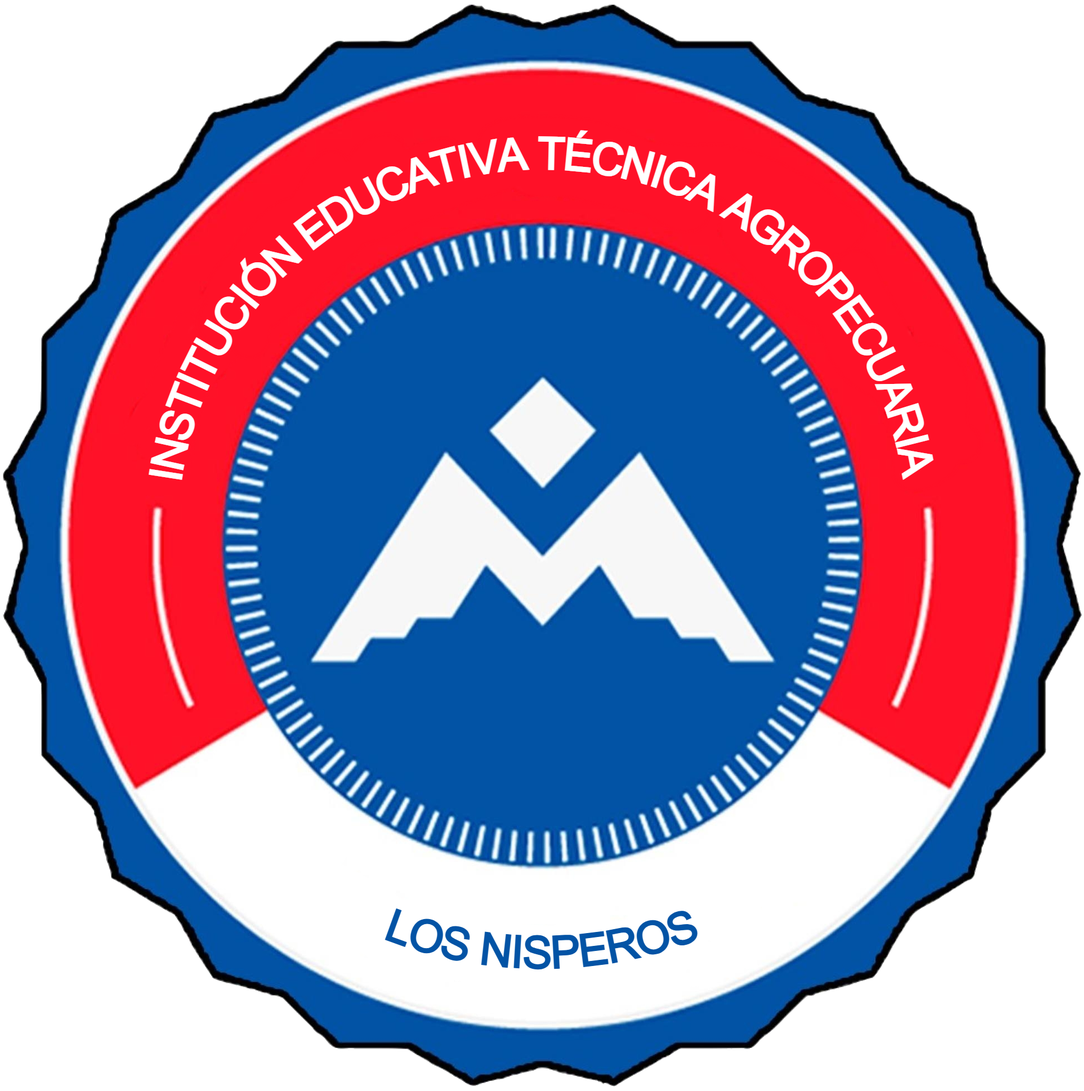
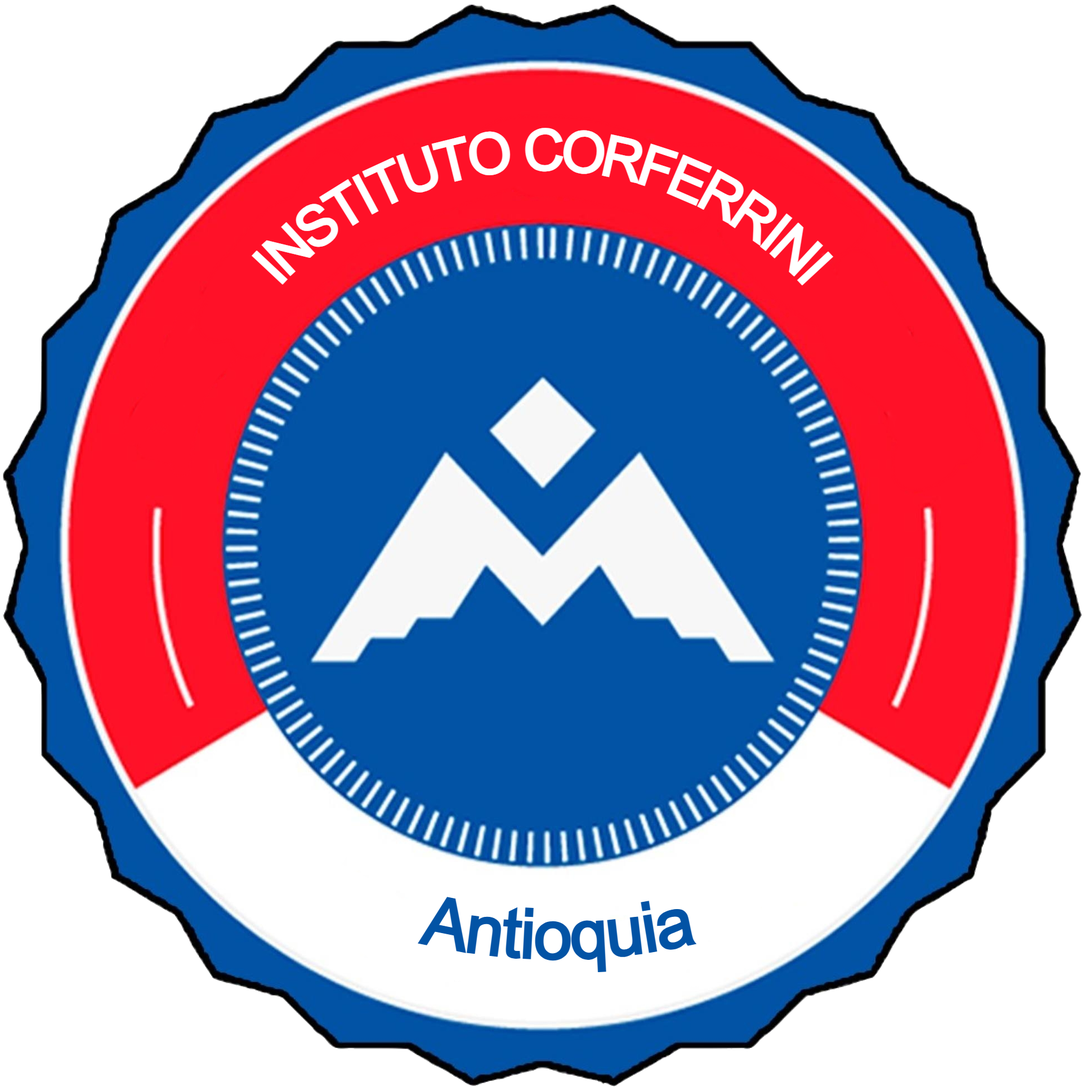
1

Changed region(s): [[0.1236, 0.0936, 0.8651, 0.4368], [0.3399, 0.8113, 0.6488, 0.9049]]

diff --git a/contacto/index.html b/contacto/index.html
@@ -8,10 +8,10 @@
     <meta name="viewport" content="width=device-width, initial-scale=1">
     <link rel="profile" href="http://gmpg.org/xfn/11">
     <link rel="pingback" href="../xmlrpc.html">
-	<title>Contacto &#8211; I EDU TÉCNICA AGROPECUARIA LOS NISPEROS</title>
+	<title>Contacto &#8211; INSTITUTO CORFERRINI</title>
 <meta name='robots' content='max-image-preview:large' />
-<link rel="alternate" type="application/rss+xml" title="I EDU TÉCNICA AGROPECUARIA LOS NISPEROS &raquo; Feed" href="../feed/index.html" />
-<link rel="alternate" type="application/rss+xml" title="I EDU TÉCNICA AGROPECUARIA LOS NISPEROS &raquo; Feed de los comentarios" href="../comments/feed/index.html" />
+<link rel="alternate" type="application/rss+xml" title="INSTITUTO CORFERRINI &raquo; Feed" href="../feed/index.html" />
+<link rel="alternate" type="application/rss+xml" title="INSTITUTO CORFERRINI &raquo; Feed de los comentarios" href="../comments/feed/index.html" />
 <link rel='stylesheet' id='wp-block-library-css' href='../wp-includes/css/dist/block-library/style.minb6a4.css?ver=6.6.1' type='text/css' media='all' />
 <style id='wp-block-library-theme-inline-css' type='text/css'>
 .wp-block-audio :where(figcaption){color:#555;font-size:13px;text-align:center}.is-dark-theme .wp-block-audio :where(figcaption){color:#ffffffa6}.wp-block-audio{margin:0 0 1em}.wp-block-code{border:1px solid #ccc;border-radius:4px;font-family:Menlo,Consolas,monaco,monospace;padding:.8em 1em}.wp-block-embed :where(figcaption){color:#555;font-size:13px;text-align:center}.is-dark-theme .wp-block-embed :where(figcaption){color:#ffffffa6}.wp-block-embed{margin:0 0 1em}.blocks-gallery-caption{color:#555;font-size:13px;text-align:center}.is-dark-theme .blocks-gallery-caption{color:#ffffffa6}:root :where(.wp-block-image figcaption){color:#555;font-size:13px;text-align:center}.is-dark-theme :root :where(.wp-block-image figcaption){color:#ffffffa6}.wp-block-image{margin:0 0 1em}.wp-block-pullquote{border-bottom:4px solid;border-top:4px solid;color:currentColor;margin-bottom:1.75em}.wp-block-pullquote cite,.wp-block-pullquote footer,.wp-block-pullquote__citation{color:currentColor;font-size:.8125em;font-style:normal;text-transform:uppercase}.wp-block-quote{border-left:.25em solid;margin:0 0 1.75em;padding-left:1em}.wp-block-quote cite,.wp-block-quote footer{color:currentColor;font-size:.8125em;font-style:normal;position:relative}.wp-block-quote.has-text-align-right{border-left:none;border-right:.25em solid;padding-left:0;padding-right:1em}.wp-block-quote.has-text-align-center{border:none;padding-left:0}.wp-block-quote.is-large,.wp-block-quote.is-style-large,.wp-block-quote.is-style-plain{border:none}.wp-block-search .wp-block-search__label{font-weight:700}.wp-block-search__button{border:1px solid #ccc;padding:.375em .625em}:where(.wp-block-group.has-background){padding:1.25em 2.375em}.wp-block-separator.has-css-opacity{opacity:.4}.wp-block-separator{border:none;border-bottom:2px solid;margin-left:auto;margin-right:auto}.wp-block-separator.has-alpha-channel-opacity{opacity:1}.wp-block-separator:not(.is-style-wide):not(.is-style-dots){width:100px}.wp-block-separator.has-background:not(.is-style-dots){border-bottom:none;height:1px}.wp-block-separator.has-background:not(.is-style-wide):not(.is-style-dots){height:2px}.wp-block-table{margin:0 0 1em}.wp-block-table td,.wp-block-table th{word-break:normal}.wp-block-table :where(figcaption){color:#555;font-size:13px;text-align:center}.is-dark-theme .wp-block-table :where(figcaption){color:#ffffffa6}.wp-block-video :where(figcaption){color:#555;font-size:13px;text-align:center}.is-dark-theme .wp-block-video :where(figcaption){color:#ffffffa6}.wp-block-video{margin:0 0 1em}:root :where(.wp-block-template-part.has-background){margin-bottom:0;margin-top:0;padding:1.25em 2.375em}
@@ -1032,7 +1032,7 @@ body .vc_tta.vc_tta-spacing-1 .vc_tta-tab a {
 		<div class="navigation col-sm-12">
 			<div class="tm-table">
 				<div class="width-logo table-cell sm-logo">
-					<a href="../index.html" title="I EDU TÉCNICA AGROPECUARIA LOS NISPEROS - " rel="home" class="thim-logo"><img src="../wp-content/uploads/2019/07/escudo_web.png" alt="I EDU TÉCNICA AGROPECUARIA LOS NISPEROS" width="auto" height="auto" data-sticky="../wp-content/uploads/2019/07/escudo_web.png"></a>				</div>
+					<a href="../index.html" title="INSTITUTO CORFERRINI - " rel="home" class="thim-logo"><img src="../wp-content/uploads/2019/07/escudo_web.png" alt="INSTITUTO CORFERRINI" width="auto" height="auto" data-sticky="../wp-content/uploads/2019/07/escudo_web.png"></a>				</div>
                 <nav class="width-navigation table-cell table-right">
                     <ul class="nav navbar-nav menu-main-menu thim-ekits-menu__nav">
 	<li class="menu-item menu-item-type-post_type menu-item-object-page menu-item-home menu-item-10624 tc-menu-item tc-menu-depth-0 tc-menu-align-left tc-menu-layout-default"><a href="../index.html" class="tc-menu-inner">Inicio</a></li>
@@ -1070,7 +1070,7 @@ body .vc_tta.vc_tta-spacing-1 .vc_tta-tab a {
 	
 <article id="post-87" class="post-87 page type-page status-publish hentry">
     <div class="entry-content">
-        <div class="wpb-content-wrapper"><div class="vc_row wpb_row vc_row-fluid"><div class="wpb_column vc_column_container vc_col-sm-6"><div class="vc_column-inner vc_custom_1470924989540"><div class="wpb_wrapper"><div class="vc_row wpb_row vc_inner vc_row-fluid"><div class="wpb_column vc_column_container vc_col-sm-12"><div class="vc_column-inner"><div class="wpb_wrapper"><div class="thim-widget-heading template-base"><div class="sc_heading  "><h3 class="title">Contacto</h3><p class="sub-heading" style="">Bienvenidos a nuestro sitio web, estamos encantados de que nos visites.</p></div></div></div></div></div></div><div class="vc_row wpb_row vc_inner vc_row-fluid vc_custom_1470926005243 vc_row-has-fill"><div class="wpb_column vc_column_container vc_col-sm-6"><div class="vc_column-inner vc_custom_1470926107488"><div class="wpb_wrapper"><div class="thim-widget-icon-box template-base"><div class="wrapper-box-icon text-left contact_info" ><div class="smicon-box iconbox-left" style="--icon-font-size:24px;--icon-color:#ffb606;--icon-width: 30px;"><div class="boxes-icon"><span class="inner-icon"><span class="icon"><i class="fa fa-phone""></i></span></span></span></div><div class="content-inner"><div class="sc-heading article_heading"><h3 class = "heading__primary" >Teléfono</h3></div><div class="desc-icon-box"><div class="desc-content" style="font-size: 14px;line-height: 21px;">6015581452</div></div></div></div></div></div></div></div></div><div class="wpb_column vc_column_container vc_col-sm-6"><div class="vc_column-inner vc_custom_1470926116338"><div class="wpb_wrapper"><div class="thim-widget-icon-box template-base"><div class="wrapper-box-icon text-left contact_info" ><div class="smicon-box iconbox-left" style="--icon-font-size:24px;--icon-color:#ffb606;--icon-width: 30px;"><div class="boxes-icon"><span class="inner-icon"><span class="icon"><i class="fa fa-envelope""></i></span></span></span></div><div class="content-inner"><div class="sc-heading article_heading"><h3 class = "heading__primary" >Correo Electrónico</h3></div><div class="desc-icon-box"><div class="desc-content" style="font-size: 14px;line-height: 21px;">admin@ietecnicaalosnisperos.co</div></div></div></div></div></div></div></div></div></div><div class="vc_row wpb_row vc_inner vc_row-fluid vc_custom_1470926166389 vc_row-has-fill"><div class="wpb_column vc_column_container vc_col-sm-12"><div class="vc_column-inner vc_custom_1470926141337"><div class="wpb_wrapper"><div class="thim-widget-icon-box template-base"><div class="wrapper-box-icon text-left contact_info" ><div class="smicon-box iconbox-left" style="--icon-font-size:24px;--icon-color:#ffb606;--icon-width: 30px;"><div class="boxes-icon"><span class="inner-icon"><span class="icon"><i class="fa fa-map-marker""></i></span></span></span></div><div class="content-inner"><div class="sc-heading article_heading"><h3 class = "heading__primary" >Dirección</h3></div><div class="desc-icon-box"><div class="desc-content" style="font-size: 14px;line-height: 21px;">C/GIMIENTO LOS NISPEROS, BOLÍVAR, ACHÍ , COLOMBIA</div></div></div></div></div></div></div></div></div></div><div class="vc_row wpb_row vc_inner vc_row-fluid vc_custom_1470926187379 vc_row-has-fill"><div class="wpb_column vc_column_container vc_col-sm-12"><div class="vc_column-inner vc_custom_1470926203133"><div class="wpb_wrapper"><div class="thim-widget-social template-base"><div class="thim-social">
+        <div class="wpb-content-wrapper"><div class="vc_row wpb_row vc_row-fluid"><div class="wpb_column vc_column_container vc_col-sm-6"><div class="vc_column-inner vc_custom_1470924989540"><div class="wpb_wrapper"><div class="vc_row wpb_row vc_inner vc_row-fluid"><div class="wpb_column vc_column_container vc_col-sm-12"><div class="vc_column-inner"><div class="wpb_wrapper"><div class="thim-widget-heading template-base"><div class="sc_heading  "><h3 class="title">Contacto</h3><p class="sub-heading" style="">Bienvenidos a nuestro sitio web, estamos encantados de que nos visites.</p></div></div></div></div></div></div><div class="vc_row wpb_row vc_inner vc_row-fluid vc_custom_1470926005243 vc_row-has-fill"><div class="wpb_column vc_column_container vc_col-sm-6"><div class="vc_column-inner vc_custom_1470926107488"><div class="wpb_wrapper"><div class="thim-widget-icon-box template-base"><div class="wrapper-box-icon text-left contact_info" ><div class="smicon-box iconbox-left" style="--icon-font-size:24px;--icon-color:#ffb606;--icon-width: 30px;"><div class="boxes-icon"><span class="inner-icon"><span class="icon"><i class="fa fa-phone""></i></span></span></span></div><div class="content-inner"><div class="sc-heading article_heading"><h3 class = "heading__primary" >Teléfono</h3></div><div class="desc-icon-box"><div class="desc-content" style="font-size: 14px;line-height: 21px;">6018548512</div></div></div></div></div></div></div></div></div><div class="wpb_column vc_column_container vc_col-sm-6"><div class="vc_column-inner vc_custom_1470926116338"><div class="wpb_wrapper"><div class="thim-widget-icon-box template-base"><div class="wrapper-box-icon text-left contact_info" ><div class="smicon-box iconbox-left" style="--icon-font-size:24px;--icon-color:#ffb606;--icon-width: 30px;"><div class="boxes-icon"><span class="inner-icon"><span class="icon"><i class="fa fa-envelope""></i></span></span></span></div><div class="content-inner"><div class="sc-heading article_heading"><h3 class = "heading__primary" >Correo Electrónico</h3></div><div class="desc-icon-box"><div class="desc-content" style="font-size: 14px;line-height: 21px;">admin@institutocorferrini.co</div></div></div></div></div></div></div></div></div></div><div class="vc_row wpb_row vc_inner vc_row-fluid vc_custom_1470926166389 vc_row-has-fill"><div class="wpb_column vc_column_container vc_col-sm-12"><div class="vc_column-inner vc_custom_1470926141337"><div class="wpb_wrapper"><div class="thim-widget-icon-box template-base"><div class="wrapper-box-icon text-left contact_info" ><div class="smicon-box iconbox-left" style="--icon-font-size:24px;--icon-color:#ffb606;--icon-width: 30px;"><div class="boxes-icon"><span class="inner-icon"><span class="icon"><i class="fa fa-map-marker""></i></span></span></span></div><div class="content-inner"><div class="sc-heading article_heading"><h3 class = "heading__primary" >Dirección</h3></div><div class="desc-icon-box"><div class="desc-content" style="font-size: 14px;line-height: 21px;">Carepa, Antioquia, Colombia</div></div></div></div></div></div></div></div></div></div><div class="vc_row wpb_row vc_inner vc_row-fluid vc_custom_1470926187379 vc_row-has-fill"><div class="wpb_column vc_column_container vc_col-sm-12"><div class="vc_column-inner vc_custom_1470926203133"><div class="wpb_wrapper"><div class="thim-widget-social template-base"><div class="thim-social">
 		
 </div></div></div></div></div></div></div></div></div><div class="wpb_column vc_column_container vc_col-sm-6"><div class="vc_column-inner vc_custom_1470924975090"><div class="wpb_wrapper"><div class="vc_row wpb_row vc_inner vc_row-fluid"><div class="wpb_column vc_column_container vc_col-sm-12"><div class="vc_column-inner"><div class="wpb_wrapper">
 	
@@ -1138,15 +1138,15 @@ body .vc_tta.vc_tta-spacing-1 .vc_tta-tab a {
 		<div class="wpb_wrapper">
 			<p><img class="wp-image-11219 size-full aligncenter" src="../wp-content/uploads/2019/07/escudo_web.png" alt="" width="120" height="120" /></p>
 <p style="text-align: center;"><strong>INSTITUCIÓN EDUCATIVA<br />
-I EDU TÉCNICA AGROPECUARIA LOS NISPEROS<br />
+INSTITUTO CORFERRINI<br />
 </strong></p>
 
 		</div>
 	</div>
 </div></div></div><div class="wpb_column vc_column_container vc_col-sm-3"><div class="vc_column-inner"><div class="wpb_wrapper"><div class="vc_wp_text wpb_content_element"><div class="widget widget_text"><h3 class="widget-title">Información de Contacto</h3>			<div class="textwidget"><div class="thim-footer-location">
-<p class="info" style="text-align: center;"><i class="fa fa-phone"></i><a href="tel:(57) 6015581452">(+57) 6015581452</a></p>
-<p class="info" style="text-align: center;"><i class="fa fa-envelope"></i><a href="mailto: admin@ietecnicaalosnisperos.co">admin@ietecnicaalosnisperos.co</a></p>
-<p class="info" style="text-align: center;"><i class="fa fa-map-marker"></i>C/GIMIENTO LOS NISPEROS, BOLÍVAR, ACHÍ , COLOMBIA</p>
+<p class="info" style="text-align: center;"><i class="fa fa-phone"></i><a href="tel:(57) 6018548512">(+57) 6018548512</a></p>
+<p class="info" style="text-align: center;"><i class="fa fa-envelope"></i><a href="mailto: admin@institutocorferrini.co">admin@institutocorferrini.co</a></p>
+<p class="info" style="text-align: center;"><i class="fa fa-map-marker"></i>Carepa, Antioquia, Colombia</p>
 </div>
 </div>
 		</div></div></div></div></div></div></aside>                </div>

diff --git a/nuestro-colegio/index.html b/nuestro-colegio/index.html
@@ -8,10 +8,10 @@
     <meta name="viewport" content="width=device-width, initial-scale=1">
     <link rel="profile" href="http://gmpg.org/xfn/11">
     <link rel="pingback" href="../xmlrpc.html">
-	<title>Nuestro Colegio &#8211; I EDU TÉCNICA AGROPECUARIA LOS NISPEROS</title>
+	<title>Nuestro Colegio &#8211; INSTITUTO CORFERRINI</title>
 <meta name='robots' content='max-image-preview:large' />
-<link rel="alternate" type="application/rss+xml" title="I EDU TÉCNICA AGROPECUARIA LOS NISPEROS &raquo; Feed" href="../feed/index.html" />
-<link rel="alternate" type="application/rss+xml" title="I EDU TÉCNICA AGROPECUARIA LOS NISPEROS &raquo; Feed de los comentarios" href="../comments/feed/index.html" />
+<link rel="alternate" type="application/rss+xml" title="INSTITUTO CORFERRINI &raquo; Feed" href="../feed/index.html" />
+<link rel="alternate" type="application/rss+xml" title="INSTITUTO CORFERRINI &raquo; Feed de los comentarios" href="../comments/feed/index.html" />
 <link rel='stylesheet' id='wp-block-library-css' href='../wp-includes/css/dist/block-library/style.minb6a4.css?ver=6.6.1' type='text/css' media='all' />
 <style id='wp-block-library-theme-inline-css' type='text/css'>
 .wp-block-audio :where(figcaption){color:#555;font-size:13px;text-align:center}.is-dark-theme .wp-block-audio :where(figcaption){color:#ffffffa6}.wp-block-audio{margin:0 0 1em}.wp-block-code{border:1px solid #ccc;border-radius:4px;font-family:Menlo,Consolas,monaco,monospace;padding:.8em 1em}.wp-block-embed :where(figcaption){color:#555;font-size:13px;text-align:center}.is-dark-theme .wp-block-embed :where(figcaption){color:#ffffffa6}.wp-block-embed{margin:0 0 1em}.blocks-gallery-caption{color:#555;font-size:13px;text-align:center}.is-dark-theme .blocks-gallery-caption{color:#ffffffa6}:root :where(.wp-block-image figcaption){color:#555;font-size:13px;text-align:center}.is-dark-theme :root :where(.wp-block-image figcaption){color:#ffffffa6}.wp-block-image{margin:0 0 1em}.wp-block-pullquote{border-bottom:4px solid;border-top:4px solid;color:currentColor;margin-bottom:1.75em}.wp-block-pullquote cite,.wp-block-pullquote footer,.wp-block-pullquote__citation{color:currentColor;font-size:.8125em;font-style:normal;text-transform:uppercase}.wp-block-quote{border-left:.25em solid;margin:0 0 1.75em;padding-left:1em}.wp-block-quote cite,.wp-block-quote footer{color:currentColor;font-size:.8125em;font-style:normal;position:relative}.wp-block-quote.has-text-align-right{border-left:none;border-right:.25em solid;padding-left:0;padding-right:1em}.wp-block-quote.has-text-align-center{border:none;padding-left:0}.wp-block-quote.is-large,.wp-block-quote.is-style-large,.wp-block-quote.is-style-plain{border:none}.wp-block-search .wp-block-search__label{font-weight:700}.wp-block-search__button{border:1px solid #ccc;padding:.375em .625em}:where(.wp-block-group.has-background){padding:1.25em 2.375em}.wp-block-separator.has-css-opacity{opacity:.4}.wp-block-separator{border:none;border-bottom:2px solid;margin-left:auto;margin-right:auto}.wp-block-separator.has-alpha-channel-opacity{opacity:1}.wp-block-separator:not(.is-style-wide):not(.is-style-dots){width:100px}.wp-block-separator.has-background:not(.is-style-dots){border-bottom:none;height:1px}.wp-block-separator.has-background:not(.is-style-wide):not(.is-style-dots){height:2px}.wp-block-table{margin:0 0 1em}.wp-block-table td,.wp-block-table th{word-break:normal}.wp-block-table :where(figcaption){color:#555;font-size:13px;text-align:center}.is-dark-theme .wp-block-table :where(figcaption){color:#ffffffa6}.wp-block-video :where(figcaption){color:#555;font-size:13px;text-align:center}.is-dark-theme .wp-block-video :where(figcaption){color:#ffffffa6}.wp-block-video{margin:0 0 1em}:root :where(.wp-block-template-part.has-background){margin-bottom:0;margin-top:0;padding:1.25em 2.375em}
@@ -1032,7 +1032,7 @@ body .vc_tta.vc_tta-spacing-1 .vc_tta-tab a {
 		<div class="navigation col-sm-12">
 			<div class="tm-table">
 				<div class="width-logo table-cell sm-logo">
-					<a href="../index.html" title="I EDU TÉCNICA AGROPECUARIA LOS NISPEROS - " rel="home" class="thim-logo"><img src="../wp-content/uploads/2019/07/escudo_web.png" alt="I EDU TÉCNICA AGROPECUARIA LOS NISPEROS" width="auto" height="auto" data-sticky="../wp-content/uploads/2019/07/escudo_web.png"></a>				</div>
+					<a href="../index.html" title="INSTITUTO CORFERRINI - " rel="home" class="thim-logo"><img src="../wp-content/uploads/2019/07/escudo_web.png" alt="INSTITUTO CORFERRINI" width="auto" height="auto" data-sticky="../wp-content/uploads/2019/07/escudo_web.png"></a>				</div>
                 <nav class="width-navigation table-cell table-right">
                     <ul class="nav navbar-nav menu-main-menu thim-ekits-menu__nav">
 	<li class="menu-item menu-item-type-post_type menu-item-object-page menu-item-home menu-item-10624 tc-menu-item tc-menu-depth-0 tc-menu-align-left tc-menu-layout-default"><a href="../index.html" class="tc-menu-inner">Inicio</a></li>
@@ -1074,7 +1074,7 @@ body .vc_tta.vc_tta-spacing-1 .vc_tta-tab a {
 	<div class="wpb_text_column wpb_content_element" >
 		<div class="wpb_wrapper">
 			<h3 class="thim-text-title">Misión</h3>
-<p>La I EDU TÉCNICA AGROPECUARIA LOS NISPEROS, es un establecimiento de carácter oficial que ofrece los niveles de preescolar, básica primaria y secundaria, media académica y técnica, bachillerato por ciclos y programas flexibles, creada para la formación integral de la comunidad tibuyana con carácter inclusivo, a través de un Proyecto Educativo que incida significativamente en el desarrollo de sus competencias intelectuales, laborales y ciudadanas.</p>
+<p>La INSTITUTO CORFERRINI, es un establecimiento de carácter oficial que ofrece los niveles de preescolar, básica primaria y secundaria, media académica y técnica, bachillerato por ciclos y programas flexibles, creada para la formación integral de la comunidad tibuyana con carácter inclusivo, a través de un Proyecto Educativo que incida significativamente en el desarrollo de sus competencias intelectuales, laborales y ciudadanas.</p>
 
 		</div>
 	</div>
@@ -1082,7 +1082,7 @@ body .vc_tta.vc_tta-spacing-1 .vc_tta-tab a {
 	<div class="wpb_text_column wpb_content_element" >
 		<div class="wpb_wrapper">
 			<h3 class="thim-text-title">Visión</h3>
-<p>La I EDU TÉCNICA AGROPECUARIA LOS NISPEROS, será reconocida por ser gestora de paz, por su excelencia administrativa y académica, líder en el respeto a los derechos humanos y la promoción de desarrollo integral de la región del Catatumbo.</p>
+<p>La INSTITUTO CORFERRINI, será reconocida por ser gestora de paz, por su excelencia administrativa y académica, líder en el respeto a los derechos humanos y la promoción de desarrollo integral de la región del Catatumbo.</p>
 
 		</div>
 	</div>
@@ -1114,15 +1114,15 @@ body .vc_tta.vc_tta-spacing-1 .vc_tta-tab a {
 		<div class="wpb_wrapper">
 			<p><img class="wp-image-11219 size-full aligncenter" src="../wp-content/uploads/2019/07/escudo_web.png" alt="" width="120" height="120" /></p>
 <p style="text-align: center;"><strong>INSTITUCIÓN EDUCATIVA<br />
-I EDU TÉCNICA AGROPECUARIA LOS NISPEROS<br />
+INSTITUTO CORFERRINI<br />
 </strong></p>
 
 		</div>
 	</div>
 </div></div></div><div class="wpb_column vc_column_container vc_col-sm-3"><div class="vc_column-inner"><div class="wpb_wrapper"><div class="vc_wp_text wpb_content_element"><div class="widget widget_text"><h3 class="widget-title">Información de Contacto</h3>			<div class="textwidget"><div class="thim-footer-location">
-<p class="info" style="text-align: center;"><i class="fa fa-phone"></i><a href="tel:(57) 6015581452">(+57) 6015581452</a></p>
-<p class="info" style="text-align: center;"><i class="fa fa-envelope"></i><a href="mailto: admin@ietecnicaalosnisperos.co">admin@ietecnicaalosnisperos.co</a></p>
-<p class="info" style="text-align: center;"><i class="fa fa-map-marker"></i>C/GIMIENTO LOS NISPEROS, BOLÍVAR, ACHÍ , COLOMBIA</p>
+<p class="info" style="text-align: center;"><i class="fa fa-phone"></i><a href="tel:(57) 6018548512">(+57) 6018548512</a></p>
+<p class="info" style="text-align: center;"><i class="fa fa-envelope"></i><a href="mailto: admin@institutocorferrini.co">admin@institutocorferrini.co</a></p>
+<p class="info" style="text-align: center;"><i class="fa fa-map-marker"></i>Carepa, Antioquia, Colombia</p>
 </div>
 </div>
 		</div></div></div></div></div></div></aside>                </div>

diff --git a/index.html b/index.html
@@ -8,10 +8,10 @@
     <meta name="viewport" content="width=device-width, initial-scale=1">
     <link rel="profile" href="http://gmpg.org/xfn/11">
     <link rel="pingback" href="xmlrpc.html">
-	<title>I EDU TÉCNICA AGROPECUARIA LOS NISPEROS</title>
+	<title>INSTITUTO CORFERRINI</title>
 <meta name='robots' content='max-image-preview:large' />
-<link rel="alternate" type="application/rss+xml" title="I EDU TÉCNICA AGROPECUARIA LOS NISPEROS &raquo; Feed" href="feed/index.html" />
-<link rel="alternate" type="application/rss+xml" title="I EDU TÉCNICA AGROPECUARIA LOS NISPEROS &raquo; Feed de los comentarios" href="comments/feed/index.html" />
+<link rel="alternate" type="application/rss+xml" title="INSTITUTO CORFERRINI &raquo; Feed" href="feed/index.html" />
+<link rel="alternate" type="application/rss+xml" title="INSTITUTO CORFERRINI &raquo; Feed de los comentarios" href="comments/feed/index.html" />
 <link rel='stylesheet' id='wp-block-library-css' href='wp-includes/css/dist/block-library/style.minb6a4.css?ver=6.6.1' type='text/css' media='all' />
 <style id='wp-block-library-theme-inline-css' type='text/css'>
 .wp-block-audio :where(figcaption){color:#555;font-size:13px;text-align:center}.is-dark-theme .wp-block-audio :where(figcaption){color:#ffffffa6}.wp-block-audio{margin:0 0 1em}.wp-block-code{border:1px solid #ccc;border-radius:4px;font-family:Menlo,Consolas,monaco,monospace;padding:.8em 1em}.wp-block-embed :where(figcaption){color:#555;font-size:13px;text-align:center}.is-dark-theme .wp-block-embed :where(figcaption){color:#ffffffa6}.wp-block-embed{margin:0 0 1em}.blocks-gallery-caption{color:#555;font-size:13px;text-align:center}.is-dark-theme .blocks-gallery-caption{color:#ffffffa6}:root :where(.wp-block-image figcaption){color:#555;font-size:13px;text-align:center}.is-dark-theme :root :where(.wp-block-image figcaption){color:#ffffffa6}.wp-block-image{margin:0 0 1em}.wp-block-pullquote{border-bottom:4px solid;border-top:4px solid;color:currentColor;margin-bottom:1.75em}.wp-block-pullquote cite,.wp-block-pullquote footer,.wp-block-pullquote__citation{color:currentColor;font-size:.8125em;font-style:normal;text-transform:uppercase}.wp-block-quote{border-left:.25em solid;margin:0 0 1.75em;padding-left:1em}.wp-block-quote cite,.wp-block-quote footer{color:currentColor;font-size:.8125em;font-style:normal;position:relative}.wp-block-quote.has-text-align-right{border-left:none;border-right:.25em solid;padding-left:0;padding-right:1em}.wp-block-quote.has-text-align-center{border:none;padding-left:0}.wp-block-quote.is-large,.wp-block-quote.is-style-large,.wp-block-quote.is-style-plain{border:none}.wp-block-search .wp-block-search__label{font-weight:700}.wp-block-search__button{border:1px solid #ccc;padding:.375em .625em}:where(.wp-block-group.has-background){padding:1.25em 2.375em}.wp-block-separator.has-css-opacity{opacity:.4}.wp-block-separator{border:none;border-bottom:2px solid;margin-left:auto;margin-right:auto}.wp-block-separator.has-alpha-channel-opacity{opacity:1}.wp-block-separator:not(.is-style-wide):not(.is-style-dots){width:100px}.wp-block-separator.has-background:not(.is-style-dots){border-bottom:none;height:1px}.wp-block-separator.has-background:not(.is-style-wide):not(.is-style-dots){height:2px}.wp-block-table{margin:0 0 1em}.wp-block-table td,.wp-block-table th{word-break:normal}.wp-block-table :where(figcaption){color:#555;font-size:13px;text-align:center}.is-dark-theme .wp-block-table :where(figcaption){color:#ffffffa6}.wp-block-video :where(figcaption){color:#555;font-size:13px;text-align:center}.is-dark-theme .wp-block-video :where(figcaption){color:#ffffffa6}.wp-block-video{margin:0 0 1em}:root :where(.wp-block-template-part.has-background){margin-bottom:0;margin-top:0;padding:1.25em 2.375em}
@@ -1032,7 +1032,7 @@ body .vc_tta.vc_tta-spacing-1 .vc_tta-tab a {
 		<div class="navigation col-sm-12">
 			<div class="tm-table">
 				<div class="width-logo table-cell sm-logo">
-					<a href="index.html" title="I EDU TÉCNICA AGROPECUARIA LOS NISPEROS - " rel="home" class="thim-logo"><img src="wp-content/uploads/2019/07/escudo_web.png" alt="I EDU TÉCNICA AGROPECUARIA LOS NISPEROS" width="auto" height="auto" data-sticky="wp-content/uploads/2019/07/escudo_web.png"></a>				</div>
+					<a href="index.html" title="INSTITUTO CORFERRINI - " rel="home" class="thim-logo"><img src="wp-content/uploads/2019/07/escudo_web.png" alt="INSTITUTO CORFERRINI" width="auto" height="auto" data-sticky="wp-content/uploads/2019/07/escudo_web.png"></a>				</div>
                 <nav class="width-navigation table-cell table-right">
                     <ul class="nav navbar-nav menu-main-menu thim-ekits-menu__nav">
 	<li class="menu-item menu-item-type-post_type menu-item-object-page menu-item-home current-menu-item page_item page-item-10591 current_page_item menu-item-10624 tc-menu-item tc-menu-depth-0 tc-menu-align-left tc-menu-layout-default"><a href="index.html" class="tc-menu-inner">Inicio</a></li>
@@ -1102,7 +1102,7 @@ body .vc_tta.vc_tta-spacing-1 .vc_tta-tab a {
 	<div class="wpb_text_column wpb_content_element vc_custom_1562188137933" >
 		<div class="wpb_wrapper">
 			<div class="textwidget">
-<p>La I EDU TÉCNICA AGROPECUARIA LOS NISPEROS, es un establecimiento de carácter oficial que ofrece los niveles de preescolar, básica primaria y secundaria, media académica y técnica, bachillerato por ciclos y programas flexibles, creada para la formación integral de la comunidad tibuyana con carácter inclusivo, a través de un Proyecto Educativo que incida significativamente en el desarrollo de sus competencias intelectuales, laborales y ciudadanas.</p>
+<p>La INSTITUTO CORFERRINI, es un establecimiento de carácter oficial que ofrece los niveles de preescolar, básica primaria y secundaria, media académica y técnica, bachillerato por ciclos y programas flexibles, creada para la formación integral de la comunidad tibuyana con carácter inclusivo, a través de un Proyecto Educativo que incida significativamente en el desarrollo de sus competencias intelectuales, laborales y ciudadanas.</p>
 </div>
 
 		</div>
@@ -1118,7 +1118,7 @@ body .vc_tta.vc_tta-spacing-1 .vc_tta-tab a {
 	<div class="wpb_text_column wpb_content_element vc_custom_1562188127762" >
 		<div class="wpb_wrapper">
 			<div class="textwidget">
-<p>La I EDU TÉCNICA AGROPECUARIA LOS NISPEROS, será reconocida por ser gestora de paz, por su excelencia administrativa y académica, líder en el respeto a los derechos humanos y la promoción de desarrollo integral de la región del Catatumbo.</p>
+<p>La INSTITUTO CORFERRINI, será reconocida por ser gestora de paz, por su excelencia administrativa y académica, líder en el respeto a los derechos humanos y la promoción de desarrollo integral de la región del Catatumbo.</p>
 </div>
 
 		</div>
@@ -1155,15 +1155,15 @@ body .vc_tta.vc_tta-spacing-1 .vc_tta-tab a {
 		<div class="wpb_wrapper">
 			<p><img class="wp-image-11219 size-full aligncenter" src="wp-content/uploads/2019/07/escudo_web.png" alt="" width="120" height="120" /></p>
 <p style="text-align: center;"><strong>INSTITUCIÓN EDUCATIVA<br />
-I EDU TÉCNICA AGROPECUARIA LOS NISPEROS<br />
+INSTITUTO CORFERRINI<br />
 </strong></p>
 
 		</div>
 	</div>
 </div></div></div><div class="wpb_column vc_column_container vc_col-sm-3"><div class="vc_column-inner"><div class="wpb_wrapper"><div class="vc_wp_text wpb_content_element"><div class="widget widget_text"><h3 class="widget-title">Información de Contacto</h3>			<div class="textwidget"><div class="thim-footer-location">
-<p class="info" style="text-align: center;"><i class="fa fa-phone"></i><a href="tel:(57) 6015581452">(+57) 6015581452</a></p>
-<p class="info" style="text-align: center;"><i class="fa fa-envelope"></i><a href="mailto:admin@ietecnicaalosnisperos.co">admin@ietecnicaalosnisperos.co</a></p>
-<p class="info" style="text-align: center;"><i class="fa fa-map-marker"></i>C/GIMIENTO LOS NISPEROS, BOLÍVAR, ACHÍ , COLOMBIA</p>
+<p class="info" style="text-align: center;"><i class="fa fa-phone"></i><a href="tel:(57) 6018548512">(+57) 6018548512</a></p>
+<p class="info" style="text-align: center;"><i class="fa fa-envelope"></i><a href="mailto:admin@institutocorferrini.co">admin@institutocorferrini.co</a></p>
+<p class="info" style="text-align: center;"><i class="fa fa-map-marker"></i>Carepa, Antioquia, Colombia</p>
 </div>
 </div>
 		</div></div></div></div></div></div></aside>                </div>

diff --git a/galeria/index.html b/galeria/index.html
@@ -8,10 +8,10 @@
     <meta name="viewport" content="width=device-width, initial-scale=1">
     <link rel="profile" href="http://gmpg.org/xfn/11">
     <link rel="pingback" href="../xmlrpc.html">
-	<title>Galería &#8211; I EDU TÉCNICA AGROPECUARIA LOS NISPEROS</title>
+	<title>Galería &#8211; INSTITUTO CORFERRINI</title>
 <meta name='robots' content='max-image-preview:large' />
-<link rel="alternate" type="application/rss+xml" title="I EDU TÉCNICA AGROPECUARIA LOS NISPEROS &raquo; Feed" href="../feed/index.html" />
-<link rel="alternate" type="application/rss+xml" title="I EDU TÉCNICA AGROPECUARIA LOS NISPEROS &raquo; Feed de los comentarios" href="../comments/feed/index.html" />
+<link rel="alternate" type="application/rss+xml" title="INSTITUTO CORFERRINI &raquo; Feed" href="../feed/index.html" />
+<link rel="alternate" type="application/rss+xml" title="INSTITUTO CORFERRINI &raquo; Feed de los comentarios" href="../comments/feed/index.html" />
 <link rel='stylesheet' id='wp-block-library-css' href='../wp-includes/css/dist/block-library/style.minb6a4.css?ver=6.6.1' type='text/css' media='all' />
 <style id='wp-block-library-theme-inline-css' type='text/css'>
 .wp-block-audio :where(figcaption){color:#555;font-size:13px;text-align:center}.is-dark-theme .wp-block-audio :where(figcaption){color:#ffffffa6}.wp-block-audio{margin:0 0 1em}.wp-block-code{border:1px solid #ccc;border-radius:4px;font-family:Menlo,Consolas,monaco,monospace;padding:.8em 1em}.wp-block-embed :where(figcaption){color:#555;font-size:13px;text-align:center}.is-dark-theme .wp-block-embed :where(figcaption){color:#ffffffa6}.wp-block-embed{margin:0 0 1em}.blocks-gallery-caption{color:#555;font-size:13px;text-align:center}.is-dark-theme .blocks-gallery-caption{color:#ffffffa6}:root :where(.wp-block-image figcaption){color:#555;font-size:13px;text-align:center}.is-dark-theme :root :where(.wp-block-image figcaption){color:#ffffffa6}.wp-block-image{margin:0 0 1em}.wp-block-pullquote{border-bottom:4px solid;border-top:4px solid;color:currentColor;margin-bottom:1.75em}.wp-block-pullquote cite,.wp-block-pullquote footer,.wp-block-pullquote__citation{color:currentColor;font-size:.8125em;font-style:normal;text-transform:uppercase}.wp-block-quote{border-left:.25em solid;margin:0 0 1.75em;padding-left:1em}.wp-block-quote cite,.wp-block-quote footer{color:currentColor;font-size:.8125em;font-style:normal;position:relative}.wp-block-quote.has-text-align-right{border-left:none;border-right:.25em solid;padding-left:0;padding-right:1em}.wp-block-quote.has-text-align-center{border:none;padding-left:0}.wp-block-quote.is-large,.wp-block-quote.is-style-large,.wp-block-quote.is-style-plain{border:none}.wp-block-search .wp-block-search__label{font-weight:700}.wp-block-search__button{border:1px solid #ccc;padding:.375em .625em}:where(.wp-block-group.has-background){padding:1.25em 2.375em}.wp-block-separator.has-css-opacity{opacity:.4}.wp-block-separator{border:none;border-bottom:2px solid;margin-left:auto;margin-right:auto}.wp-block-separator.has-alpha-channel-opacity{opacity:1}.wp-block-separator:not(.is-style-wide):not(.is-style-dots){width:100px}.wp-block-separator.has-background:not(.is-style-dots){border-bottom:none;height:1px}.wp-block-separator.has-background:not(.is-style-wide):not(.is-style-dots){height:2px}.wp-block-table{margin:0 0 1em}.wp-block-table td,.wp-block-table th{word-break:normal}.wp-block-table :where(figcaption){color:#555;font-size:13px;text-align:center}.is-dark-theme .wp-block-table :where(figcaption){color:#ffffffa6}.wp-block-video :where(figcaption){color:#555;font-size:13px;text-align:center}.is-dark-theme .wp-block-video :where(figcaption){color:#ffffffa6}.wp-block-video{margin:0 0 1em}:root :where(.wp-block-template-part.has-background){margin-bottom:0;margin-top:0;padding:1.25em 2.375em}
@@ -1032,7 +1032,7 @@ body .vc_tta.vc_tta-spacing-1 .vc_tta-tab a {
 		<div class="navigation col-sm-12">
 			<div class="tm-table">
 				<div class="width-logo table-cell sm-logo">
-					<a href="../index.html" title="I EDU TÉCNICA AGROPECUARIA LOS NISPEROS - " rel="home" class="thim-logo"><img src="../wp-content/uploads/2019/07/escudo_web.png" alt="I EDU TÉCNICA AGROPECUARIA LOS NISPEROS" width="auto" height="auto" data-sticky="../wp-content/uploads/2019/07/escudo_web.png"></a>				</div>
+					<a href="../index.html" title="INSTITUTO CORFERRINI - " rel="home" class="thim-logo"><img src="../wp-content/uploads/2019/07/escudo_web.png" alt="INSTITUTO CORFERRINI" width="auto" height="auto" data-sticky="../wp-content/uploads/2019/07/escudo_web.png"></a>				</div>
                 <nav class="width-navigation table-cell table-right">
                     <ul class="nav navbar-nav menu-main-menu thim-ekits-menu__nav">
 	<li class="menu-item menu-item-type-post_type menu-item-object-page menu-item-home menu-item-10624 tc-menu-item tc-menu-depth-0 tc-menu-align-left tc-menu-layout-default"><a href="../index.html" class="tc-menu-inner">Inicio</a></li>
@@ -1098,15 +1098,15 @@ body .vc_tta.vc_tta-spacing-1 .vc_tta-tab a {
 		<div class="wpb_wrapper">
 			<p><img class="wp-image-11219 size-full aligncenter" src="../wp-content/uploads/2019/07/escudo_web.png" alt="" width="120" height="120" /></p>
 <p style="text-align: center;"><strong>INSTITUCIÓN EDUCATIVA<br />
-I EDU TÉCNICA AGROPECUARIA LOS NISPEROS<br />
+INSTITUTO CORFERRINI<br />
 </strong></p>
 
 		</div>
 	</div>
 </div></div></div><div class="wpb_column vc_column_container vc_col-sm-3"><div class="vc_column-inner"><div class="wpb_wrapper"><div class="vc_wp_text wpb_content_element"><div class="widget widget_text"><h3 class="widget-title">Información de Contacto</h3>			<div class="textwidget"><div class="thim-footer-location">
-<p class="info" style="text-align: center;"><i class="fa fa-phone"></i><a href="tel:(57) 6015581452">(+57) 6015581452</a></p>
-<p class="info" style="text-align: center;"><i class="fa fa-envelope"></i><a href="mailto: admin@ietecnicaalosnisperos.co">admin@ietecnicaalosnisperos.co</a></p>
-<p class="info" style="text-align: center;"><i class="fa fa-map-marker"></i>C/GIMIENTO LOS NISPEROS, BOLÍVAR, ACHÍ , COLOMBIA</p>
+<p class="info" style="text-align: center;"><i class="fa fa-phone"></i><a href="tel:(57) 6018548512">(+57) 6018548512</a></p>
+<p class="info" style="text-align: center;"><i class="fa fa-envelope"></i><a href="mailto: admin@institutocorferrini.co">admin@institutocorferrini.co</a></p>
+<p class="info" style="text-align: center;"><i class="fa fa-map-marker"></i>Carepa, Antioquia, Colombia</p>
 </div>
 </div>
 		</div></div></div></div></div></div></aside>                </div>
